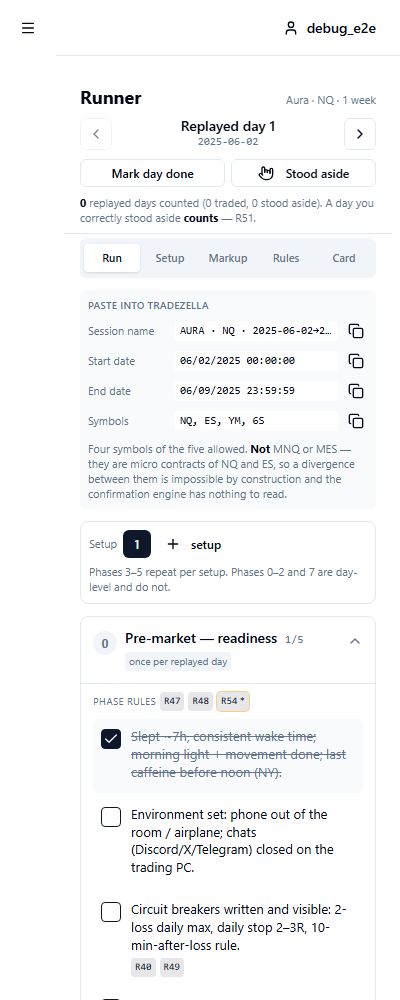
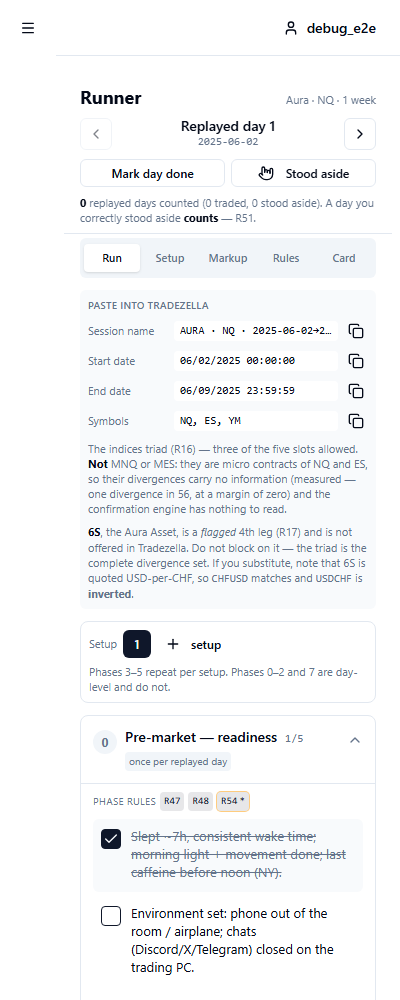
docs(aura): 6S unavailable — drop to the 3-leg triad, flag the inversion trap
Paul reports 6S is not offered in Tradezella's symbol search. The setup
docs and the runner's copyable value both said "NQ, ES, YM, 6S" — an
instruction that cannot be followed, which is exactly the failure the
markup probe existed to prevent. Fixed everywhere.

NOT INDEPENDENTLY VERIFIED, and said so rather than implied. The
in-session datafeed's searchSymbols is scoped to that session's own
symbols: it returns the same four regardless of the query, including for a
nonsense string. So a "not found" from it would have been a zero from an
instrument that cannot see. Paul's observation stands; the catalogue was
not checked.

IT DOES NOT BLOCK ANYTHING. R16 defines the indices triad as ES/NQ/YM —
the complete divergence set, and what R18's Sequential SMT operates on.
R17 adds 6S as a FOURTH leg and is itself flagged: dOoMeR calls the origin
story his own speculation and rests the case on chart behaviour, not
theory. So the Aura Asset is an enhancement, not a prerequisite, and the
5-symbol limit leaves room to add it later.

TWO FACTS RECORDED FOR ANY SUBSTITUTE, the first a trap:

1. DIRECTION. 6S is the CME Swiss Franc future, quoted USD per 1 CHF —
   i.e. CHF/USD. USD/CHF is the INVERSE and is the conventional quote most
   feeds default to, so substituting USDCHF would invert every divergence
   read: plausible-looking and exactly wrong. Only CHFUSD is directionally
   equivalent. Surfaced in the runner UI, not just the docs, and asserted
   in the spec.
[…]

diff --git a/app/src/components/runner/session-panel.tsx b/app/src/components/runner/session-panel.tsx
@@ -127,11 +127,18 @@ export function TradezellaPaste({ state }: { state: RunnerState }) {
       <CopyRow label="Session name" value={sessionName(state.startDate, state.span)} />
       <CopyRow label="Start date" value={toTradezellaDate(state.startDate)} />
       <CopyRow label="End date" value={toTradezellaDate(end, true)} />
-      <CopyRow label="Symbols" value="NQ, ES, YM, 6S" />
+      <CopyRow label="Symbols" value="NQ, ES, YM" />
       <p className="pt-0.5 text-[11px] leading-snug text-muted-foreground">
-        Four symbols of the five allowed. <strong className="text-foreground">Not</strong> MNQ or
-        MES — they are micro contracts of NQ and ES, so a divergence between them is impossible by
-        construction and the confirmation engine has nothing to read.
+        The indices triad (R16) — three of the five slots allowed.{' '}
+        <strong className="text-foreground">Not</strong> MNQ or MES: they are micro contracts of NQ
+        and ES, so their divergences carry no information (measured — one divergence in 56, at a
+        margin of zero) and the confirmation engine has nothing to read.
+      </p>
+      <p className="pt-0.5 text-[11px] leading-snug text-muted-foreground">
+        <strong className="text-foreground">6S</strong>, the Aura Asset, is a{' '}
+        <em>flagged</em> 4th leg (R17) and is not offered in Tradezella. Do not block on it — the
+        triad is the complete divergence set. If you substitute, note that 6S is quoted USD-per-CHF,
+        so <code>CHFUSD</code> matches and <code>USDCHF</code> is <strong>inverted</strong>.
       </p>
     </div>
   );

diff --git a/app/e2e/runner.spec.ts b/app/e2e/runner.spec.ts
@@ -103,10 +103,13 @@ test('declaring a span produces the Tradezella paste block, incl. the symbol cor
   await expect(page.getByText('AURA · NQ · 2025-06-02→2025-07-02 · 1m')).toBeVisible();
   await expect(page.getByText('06/02/2025 00:00:00')).toBeVisible();
   await expect(page.getByText('07/02/2025 23:59:59')).toBeVisible();
-  await expect(page.getByText('NQ, ES, YM, 6S')).toBeVisible();
+  await expect(page.getByText('NQ, ES, YM')).toBeVisible();
 
-  // The finding from the probe, surfaced where it can change behaviour.
+  // The findings surfaced where they can change behaviour: the micro-contract
+  // trap, and the 6S inversion trap (USDCHF moves opposite to 6S, so a
+  // substitute chosen carelessly inverts every divergence read).
   await expect(page.getByText(/micro contracts of NQ and ES/)).toBeVisible();
+  await expect(page.getByText(/USDCHF/)).toBeVisible();
 
   expect(await horizontalOverflow(page)).toBeLessThanOrEqual(0);
   await shot(page, '02-declared-narrow-400');
